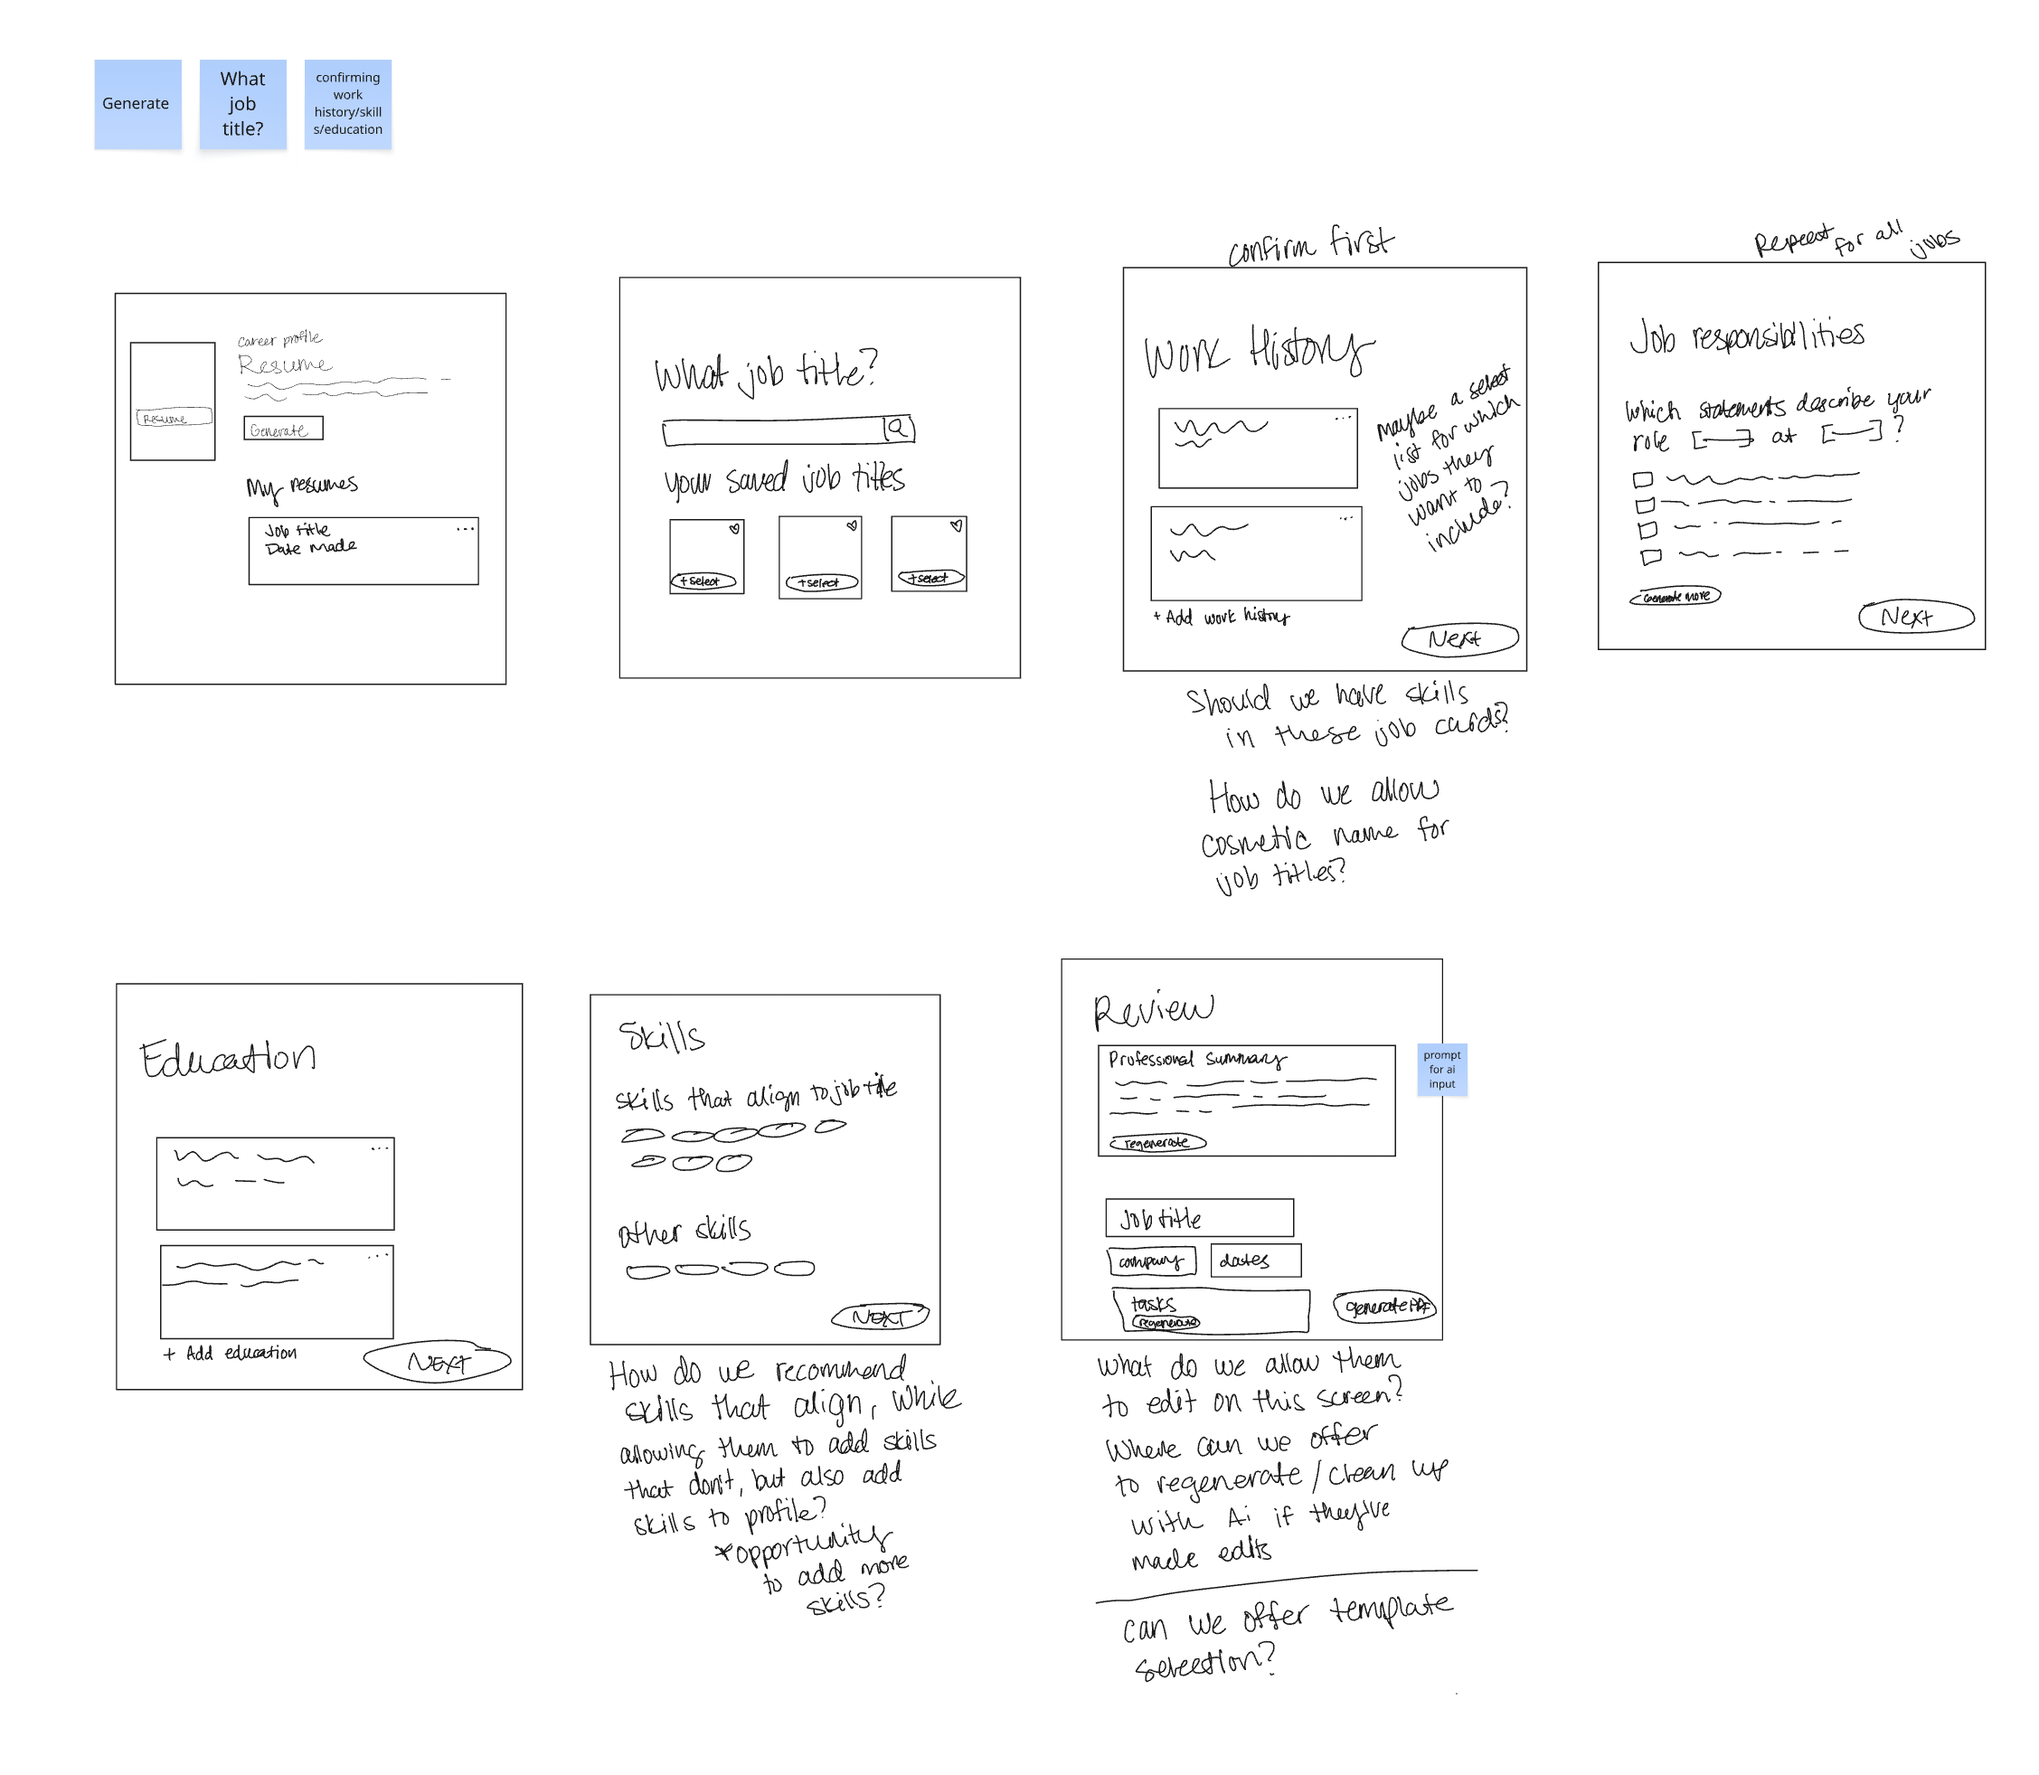
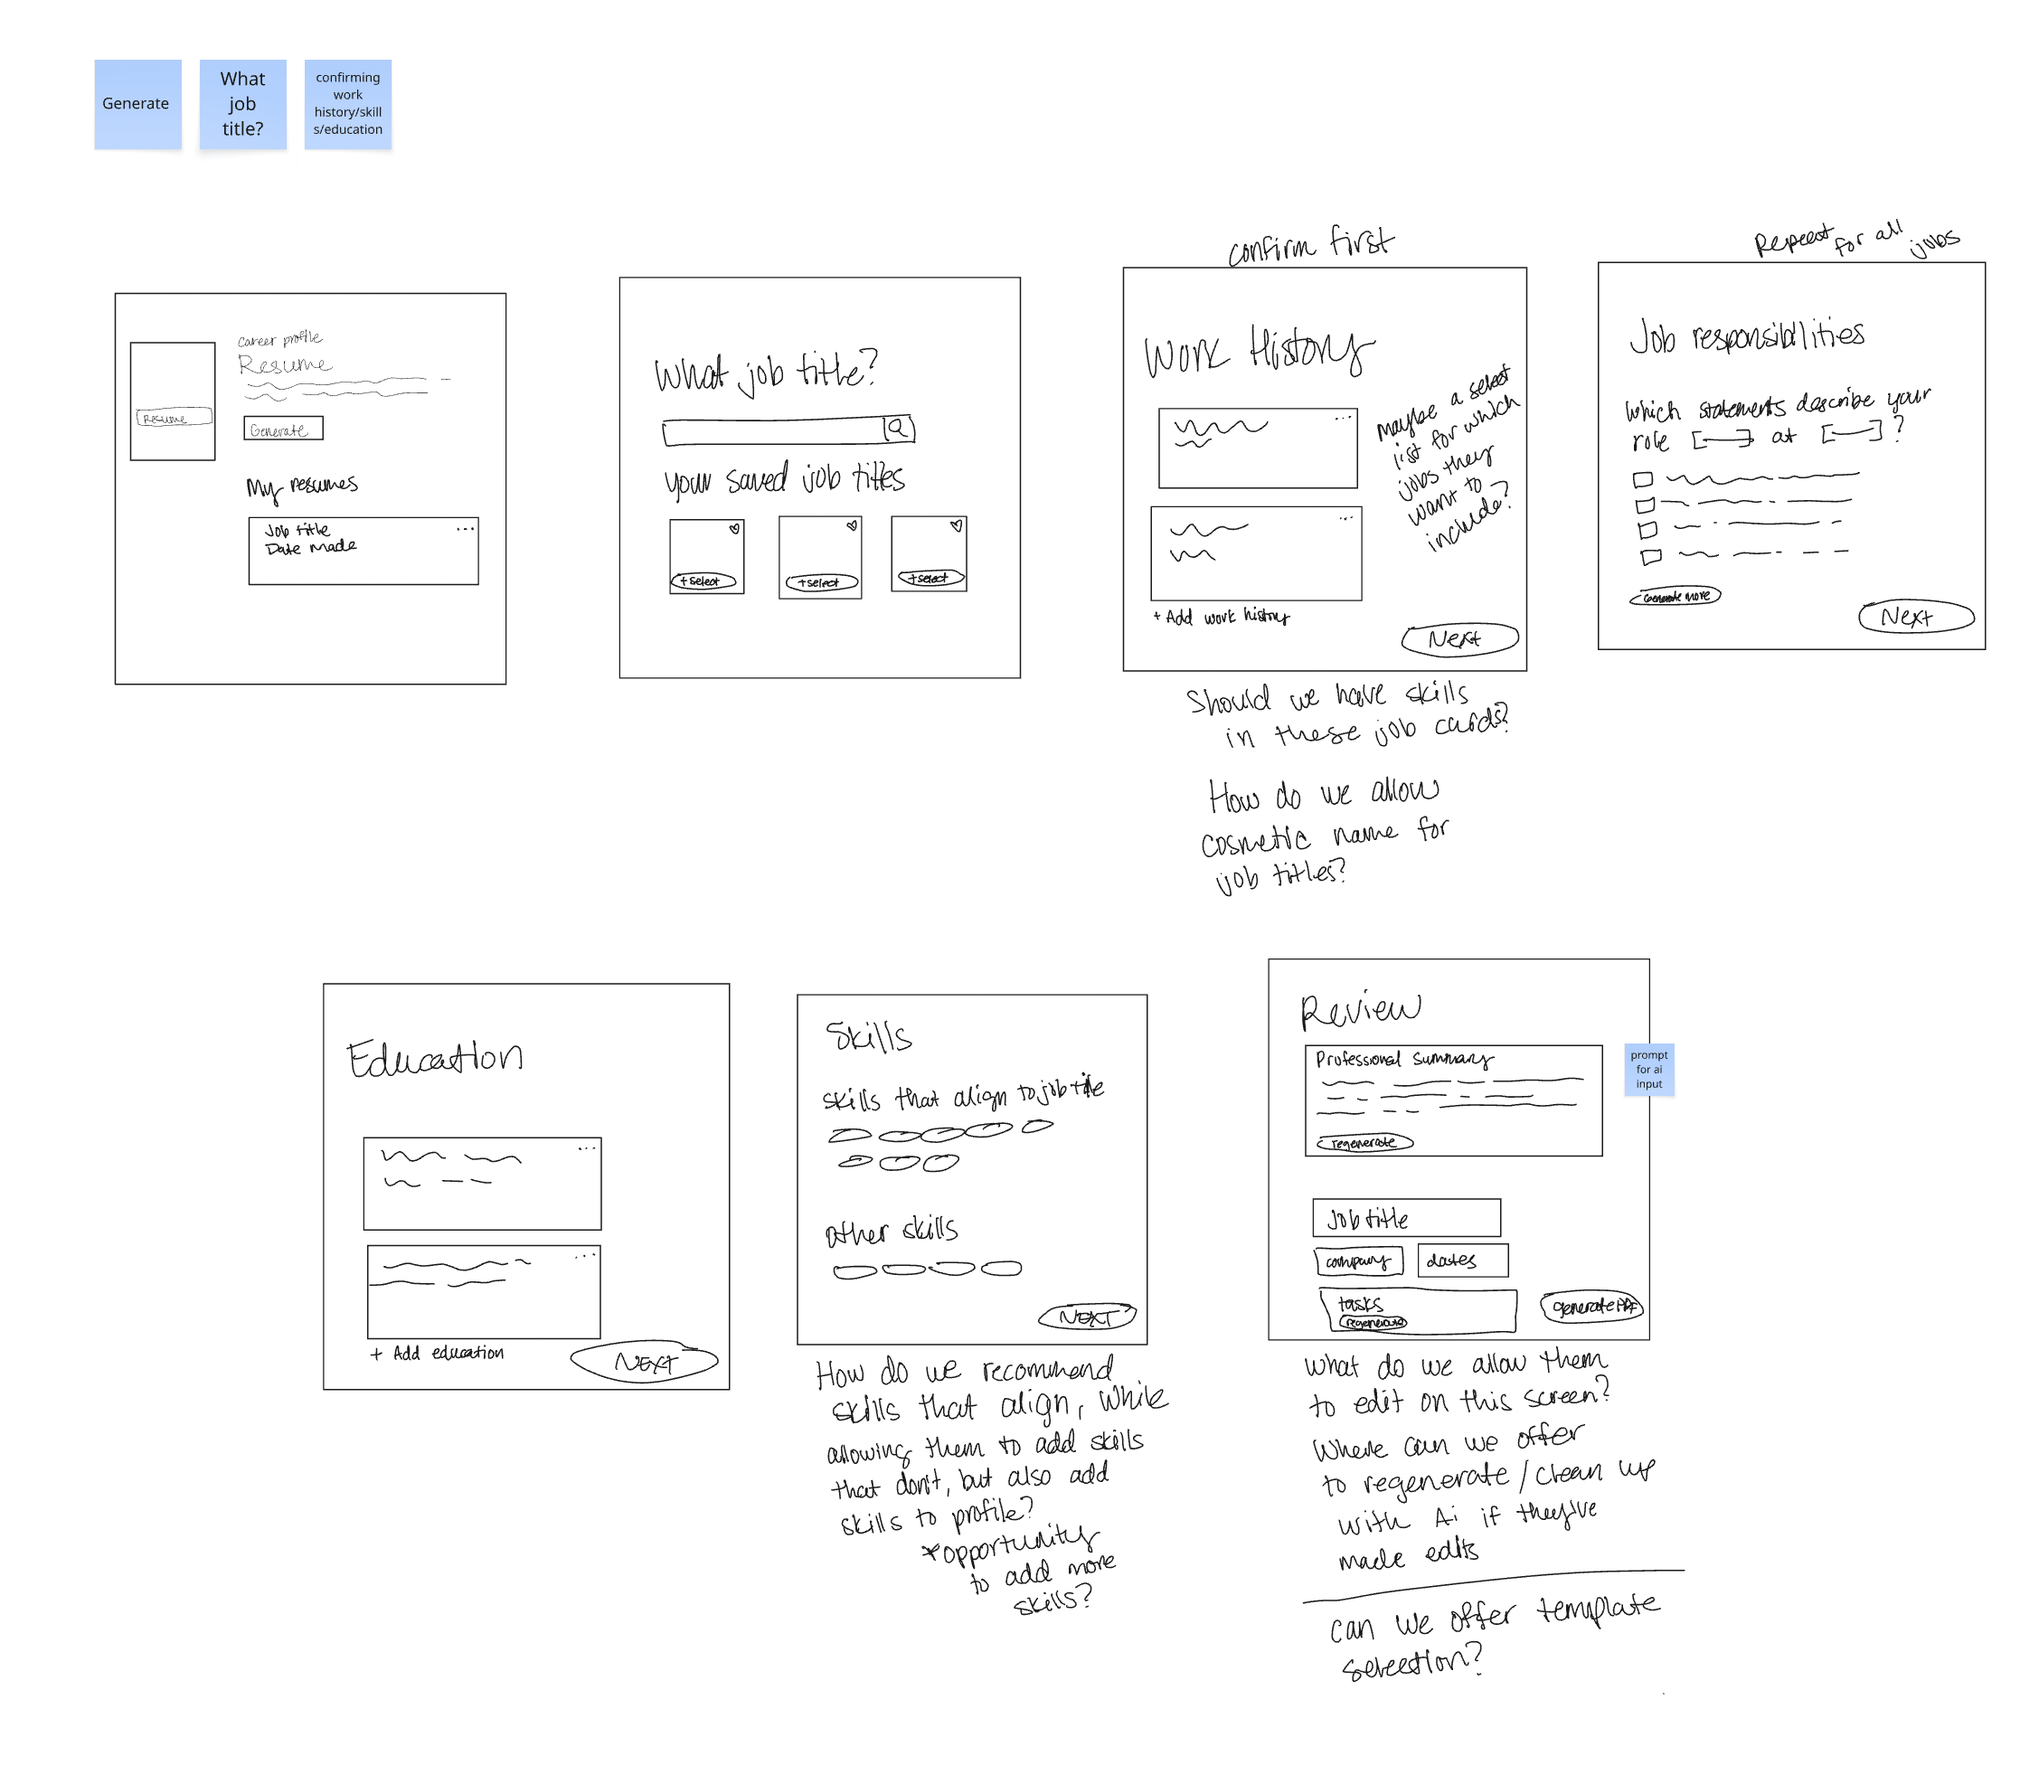
Show the whole resumé editor and tighten the AI Resumé page
The preview chapter now opens on the full editor (a test account, so no
personal details), so readers see where fine-tuning happens before the
summary unfold zooms in. Work history is cropped to the description and
its rewrite, the two Impact chapters are one, the funnel chart runs full
width so its values are legible, and the sketches' second row is
centred.

diff --git a/js/content.js b/js/content.js
@@ -760,7 +760,15 @@ window.SITE = {
           group: "iterate",
           heading: "I gave students a preview before any AI rewrite replaced their words.",
           flow: [
-            "The editor opened on a **professional summary**. AI provided a first draft based on the student’s information, but the text was directly editable. Students could revise it themselves without using AI again.\n\nFor students who wanted help, I designed **“Use AI to enhance”** as an optional, section-level action. The proposed rewrite appeared separately so they could compare it with what they had, regenerate another suggestion, or explicitly **apply changes**. Their original text wasn’t overwritten simply because they asked for help.",
+            "The editor opened on a **professional summary**. AI provided a first draft based on the student’s information, but the text was directly editable. Students could revise it themselves without using AI again.",
+            {
+              width: "wide",
+              image: "assets/stories/ai-resume/editor-full.png", w: 1381, h: 1140,
+              alt:
+                "The resumé editor for a Director of Operations posting: a resumé contents list for summary, work history, skills and education, a professional summary form with an editable AI-drafted summary and a collapsed Use AI to enhance summary bar, and a live resumé preview with a Download button.",
+              caption: "The editor: one section at a time, a live preview beside it, and Download when the student is ready."
+            },
+            "For students who wanted help, I designed **“Use AI to enhance”** as an optional, section-level action. The proposed rewrite appeared separately so they could compare it with what they had, regenerate another suggestion, or explicitly **apply changes**. Their original text wasn’t overwritten simply because they asked for help.",
             {
               /* the two editor screenshots, sliced at matching rows: the
                  expanded one sits 37px left and 3px below the collapsed one */
@@ -785,9 +793,9 @@ window.SITE = {
             "I used the same pattern in work history. Even students who opted out of AI-generated responsibilities during intake could still request help polishing their own writing in the editor.",
             {
               width: "inset",
-              image: "assets/stories/ai-resume/editor-workhistory-ai.png", w: 862, h: 944,
+              image: "assets/stories/ai-resume/editor-workhistory-ai.png", w: 862, h: 646,
               alt:
-                "Edit work history for an Assistant Manager at Walmart: the student’s six-bullet description, and below it Use AI to enhance job tasks, expanded, with a rewritten list, Regenerate and Apply changes.",
+                "A work history description in the student’s own six bullets, and below it Use AI to enhance job tasks, expanded, with a rewritten list, Regenerate and Apply changes.",
               caption: "Work history, with a rewrite of the job tasks open under the student’s own description."
             }
           ]
@@ -845,7 +853,7 @@ window.SITE = {
           group: "impact",
           nav: "Impact",
           label: "Impact",
-          heading: "I shipped the experience, then kept watching it.",
+          heading: "I measured completed resumé downloads, not curiosity clicks.",
           flow: [
             "The launch wasn’t the end of my work. I monitored product behavior in FullStory and used the evidence to evaluate the flow and the connection between resumé completion and job exploration, rather than judging the feature by generator entry clicks alone.",
             {
@@ -854,18 +862,10 @@ window.SITE = {
               alt:
                 "A screen recording panning across the resumé generator FullStory dashboard: unique visitors, traffic over 90 days, and the engagement and download funnel cards.",
               notes: ["Adoption and unique visitors", "Intake step drop-off", "Download completion", "Apply Now by cohort"]
-            }
-          ]
-        },
-
-        {
-          type: "chapter",
-          group: "impact",
-          heading: "I measured completed resumé downloads, not curiosity clicks.",
-          flow: [
+            },
             "I wanted to understand whether people who finished making a resumé went on to pursue opportunities. So I used **downloads of completed resumés** as the meaningful completion signal rather than counting people who simply opened the generator or reached the editor.\n\nFullStory tracked the general-job-title and job-posting-tailored workflows with separate identifiers.",
             {
-              width: "inset",
+              width: "wide",
               image: "assets/stories/ai-resume/applynow-funnel.png", w: 1089, h: 612,
               alt:
                 "A FullStory conversion chart comparing Job Explorer Apply Now rates: 20.62% of all real users, 55.38% of users who downloaded a resumé, and 71.67% of users who downloaded a tailored resumé.",
